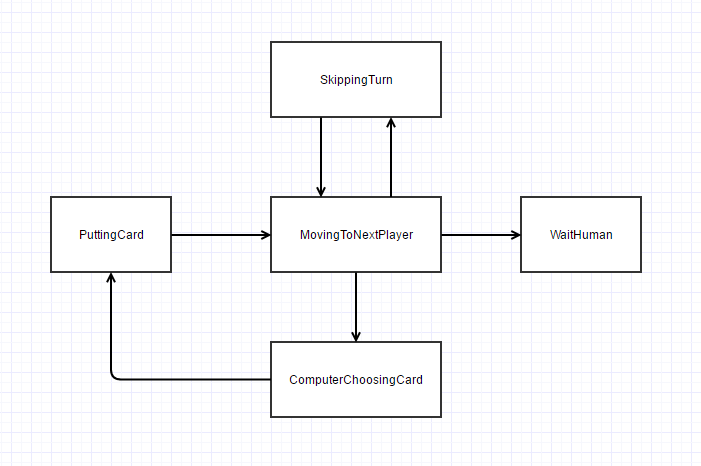
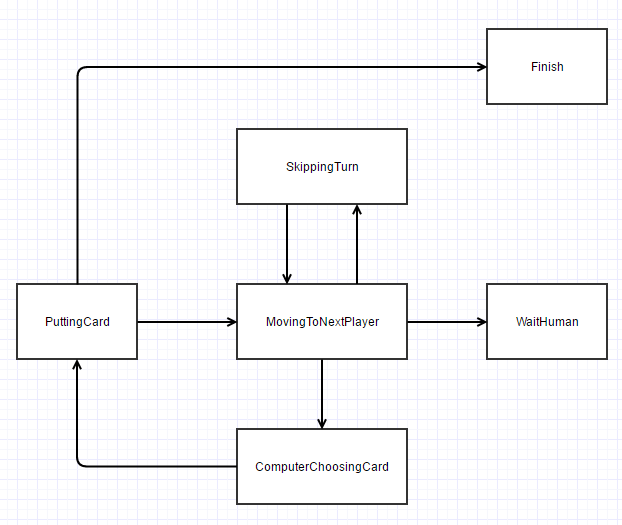
Refactored

Changed region(s): [[0.0, 0.03, 0.9775, 0.9614], [0.8553, 0.1202, 0.9164, 0.1502]]

diff --git a/Services/Model/GameContext.cs b/Services/Model/GameContext.cs
@@ -15,6 +15,7 @@ namespace Game.Model
         public Player[] Players { get; set; }
         public int BankMoney { get; set; }
         public int CurrentPlayer {get; set;} = 0;
+       
 
         public readonly object _lockObject = new Object();
 
@@ -37,12 +38,22 @@ namespace Game.Model
              
 
 
-        public void PutCardOnTheTable(Card card, Player player)
+        public void PutCardOnTheTable(Player player, Card card)
         {
+        // Implementation of the state machine
+        // In this case it is much clearly for understanding
+        // https://raw.githubusercontent.com/denisnikolayev/9game/master/Docs/StateMachine.png
+
         PuttingCard:
             PutCard(card, player);
-            goto MovingToNextPlayer;
-
+            if (AllCardsHaveBeenPutted)
+            {
+                goto Finish;
+            }
+            else
+            {
+                goto MovingToNextPlayer;
+            }
 
         MovingToNextPlayer:
             player = MoveTurnToNextPlayer();
@@ -66,6 +77,9 @@ namespace Game.Model
 
 
         SkippingTurn:
+            player.Money -= 50;
+            BankMoney += 50;
+
             foreach (var p in Players)
             {
                 p.Game.SkipTurn(player.Id, 50);
@@ -81,7 +95,12 @@ namespace Game.Model
         WaitHumanChoose:
             player.Game.YourTurn(player.AvailableCards);
             return;
+
+        Finish:
+            //TODO: finish
+            return;
         }
+
 
 
         private void PutCard(Card card, Player currentPlayer)
@@ -105,15 +124,39 @@ namespace Game.Model
             return Players[CurrentPlayer];
         }
 
-        private bool CanPutCard(Card card)
+        public bool CanPutCard(Card card)
         {
             return card.Index == 9
                    || card.Index > 6 && Table[card.Suit][card.Index - 1]
                    || card.Index < 14 && Table[card.Suit][card.Index + 1];
         }
+
         public Player Player(User user)
         {
             return Players.First(a => a.Info == user);
+        }
+
+        public bool AllCardsHaveBeenPutted
+        {
+            get
+            {
+                return !Table.Any(suit => Enumerable.Range(6, 9).Any(index => suit[index])); 
+            }
+        }
+
+        public bool ValidateStep(Player player, Card card)
+        {
+            if (!CanPutCard(card))
+            {
+                return false;
+            }
+
+            if (!player.AvailableCards.Contains(card))
+            {
+                return false;
+            }
+
+            return true;
         }
     }
 }

diff --git a/Services/Model/Players/User.cs b/Services/Model/Players/User.cs
@@ -6,7 +6,7 @@ using System.Threading.Tasks;
 
 namespace Game.Model
 {
-    public class User
+    public class User 
     {
         [JsonProperty("id")]
         public string Id { get; set; }
@@ -22,5 +22,11 @@ namespace Game.Model
 
         [JsonProperty("connectionId")]
         public string ConnectionId { get; set; }
+
+
+        public override int GetHashCode() => this.Id.GetHashCode();       
+        public override bool Equals(object other) =>  this?.Id == (other as User)?.Id;
+        public static bool operator ==(User a, User b) => Object.ReferenceEquals(a, b) || a?.Equals(b) == true;
+        public static bool operator !=(User a, User b) => !(a == b);
     }
 }

diff --git a/Services/LobbyServices.cs b/Services/LobbyServices.cs
@@ -40,8 +40,6 @@ namespace Game.Services
         {
             var game = _gameBuildersStore.Load(gameId);
             game.Connect(User);
-
-            _gameBuildersStore.Save(game);
         }
 
         public void ConnectToRandomGame()
@@ -56,8 +54,7 @@ namespace Game.Services
                 }
                 last.Connect(User);
 
-                _gameBuildersStore.LastUnStarted = last;
-                _gameBuildersStore.Save(_gameBuildersStore.LastUnStarted);
+                _gameBuildersStore.LastUnStarted = last;                
             }
         }
     }

diff --git a/Services/GameService.cs b/Services/GameService.cs
@@ -29,11 +29,17 @@ namespace Game.Services
             var user = _userStore.GetByConnectionId(Context.ConnectionId);
             var game = _gameStore.Load(gameId);
 
-            var currentPlayer = game.Player(user);
+            var player = game.Player(user);
+
+            if (!game.ValidateStep(player, card))
+            {
+                return;
+            }
+
 
             lock (game._lockObject)
             {
-                game.PutCardOnTheTable(card, currentPlayer);
+                game.PutCardOnTheTable(player, card);
             }
         }
 

diff --git a/Services/Model/Card.cs b/Services/Model/Card.cs
@@ -12,5 +12,10 @@ namespace Game.Model
         public int Suit { get; set; }
         [JsonProperty("index")]
         public int Index { get; set; }
+
+        public override int GetHashCode() => this.Suit.GetHashCode() ^ this.Index.GetHashCode();
+        public override bool Equals(object other) => this?.Suit == (other as Card)?.Suit && this?.Index == (other as Card)?.Suit;
+        public static bool operator ==(Card a, Card b) => Object.ReferenceEquals(a, b) || a?.Equals(b) == true;
+        public static bool operator !=(Card a, Card b) => !(a == b);
     }
 }
